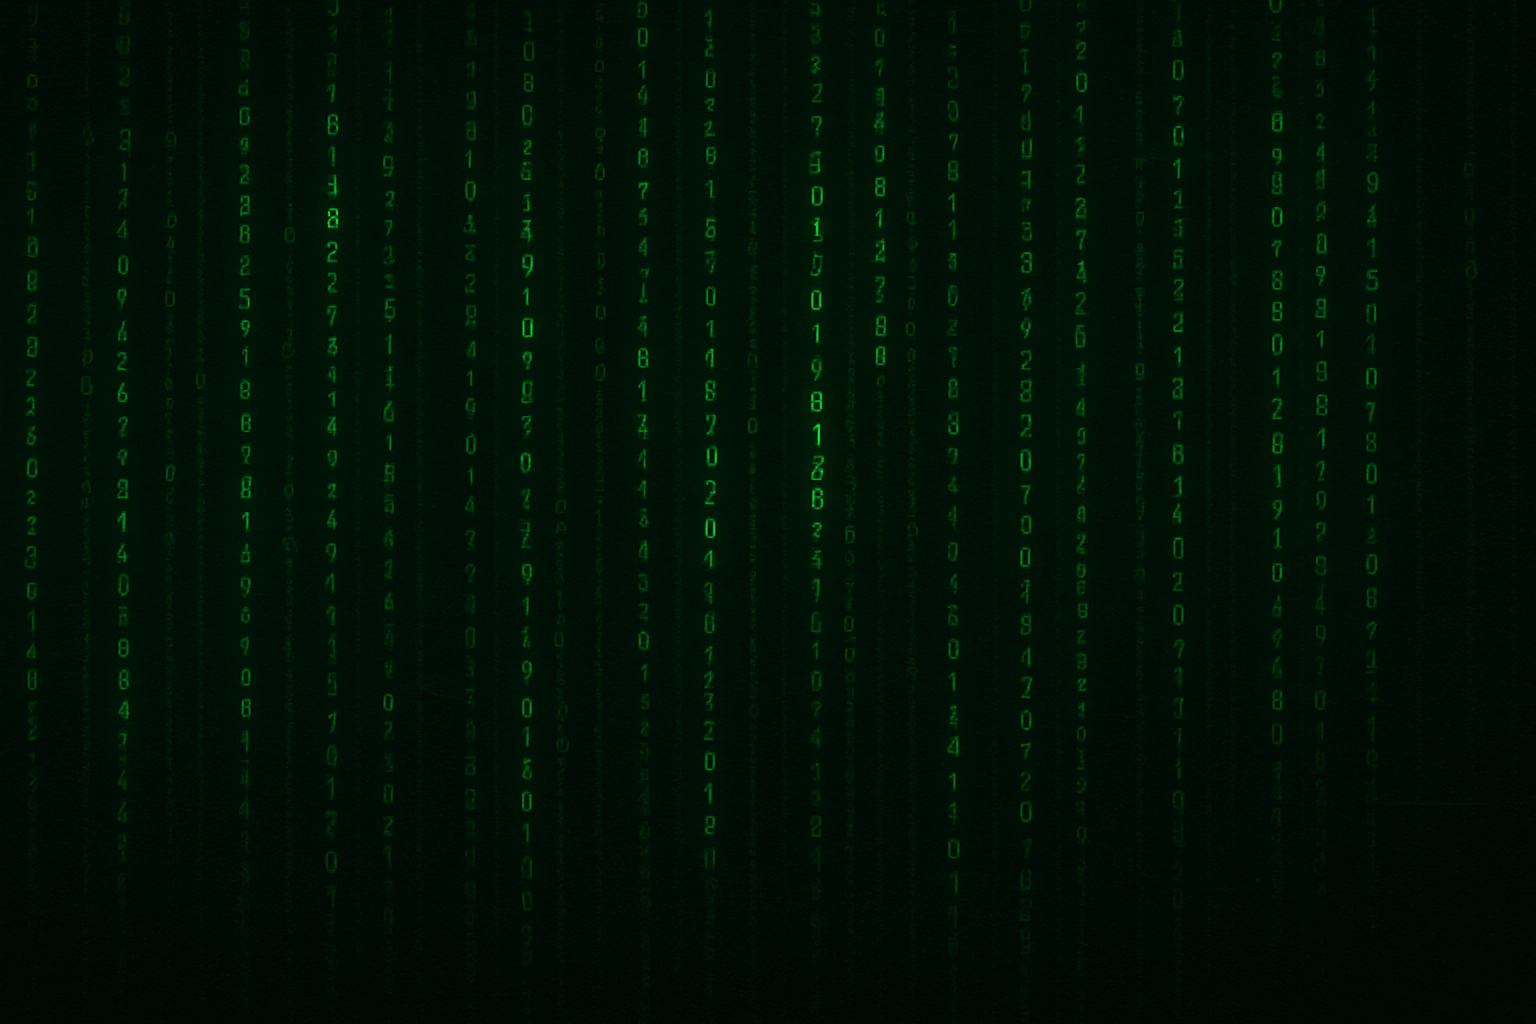
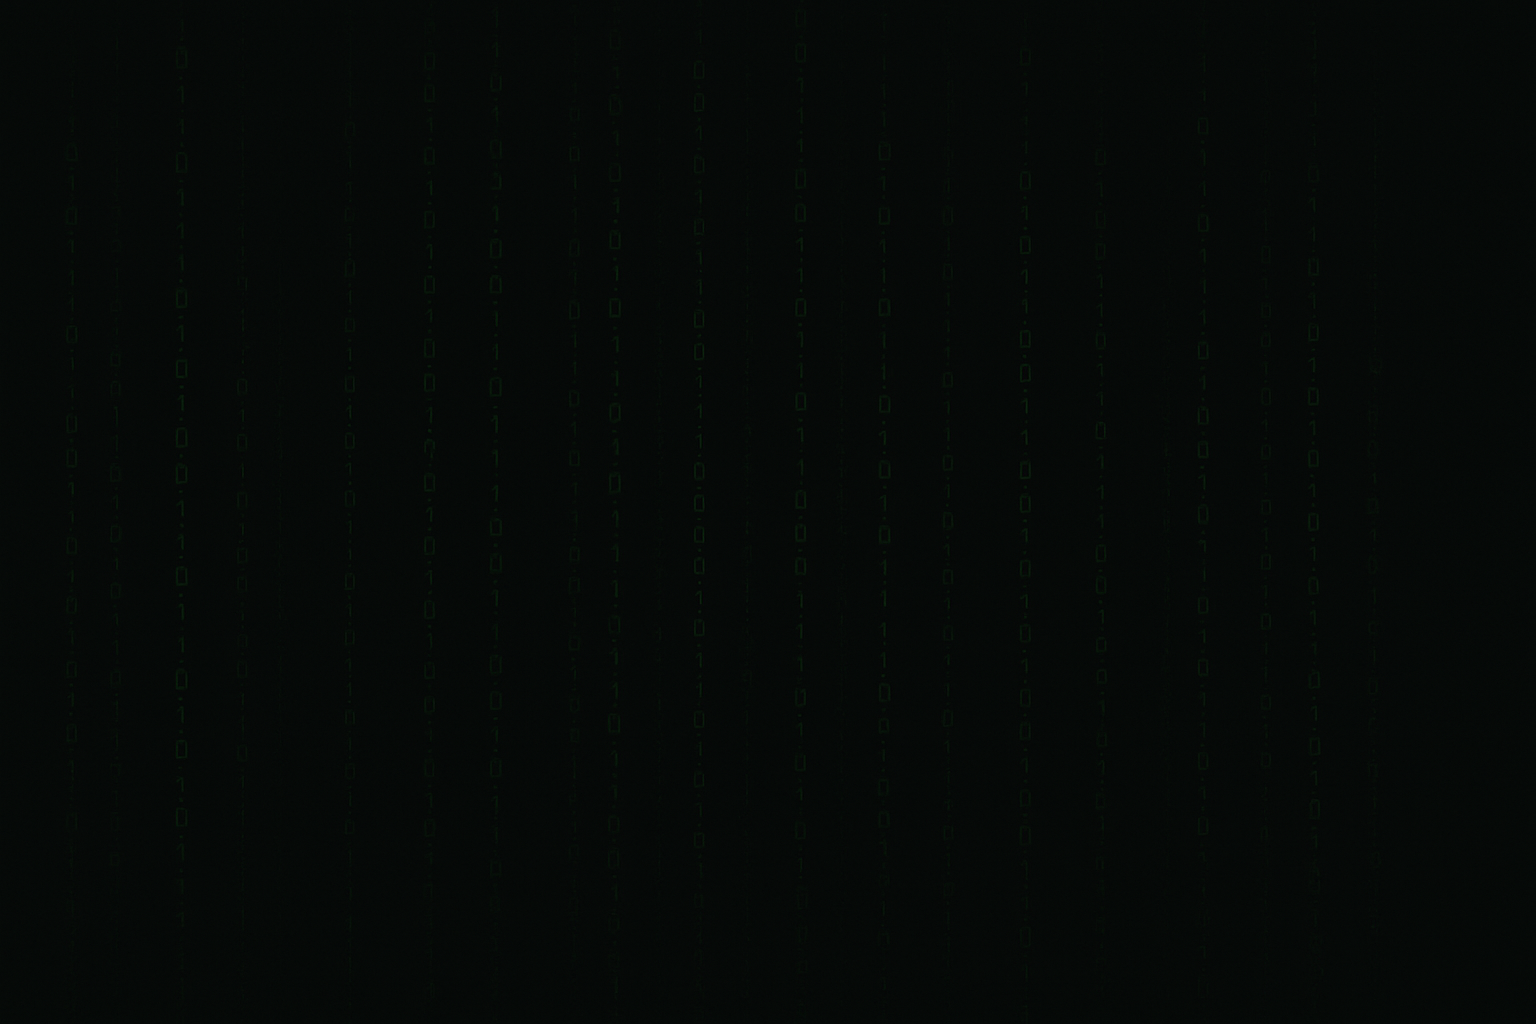
style: enhance UI with animations and text effects
Add fade-in/fade-out animations for game state transitions
Improve text visibility with font shadows

diff --git a/styles.css b/styles.css
@@ -10,10 +10,10 @@
 }
 body {
   background-color: hsla(0, 0%, 0%, 0.992);
+  background-image: url(./images/backGround.png);
   overflow: hidden;
 }
 #mainContainer {
-  /* background-image: url(./images/backGround.png); */
   height: 90vh;
   display: flex;
   justify-content: center;
@@ -44,8 +44,6 @@ body {
   font-family: "boston", sans-serif;
   font-size: 1.3em;
   color: #000000;
-  text-shadow: 0 0 5px #ffffff, 0 0 10px #5bd247, 0 0 15px #5bd247,
-    0 0 20px #5bd247, 0 0 25px #063d09;
 }
 
 .result {
@@ -55,16 +53,17 @@ body {
   justify-content: space-around;
   font-family: "boston", sans-serif;
   font-size: 1.2em;
-  color: #ffffff;
 }
 .playAgain button {
   font-family: "boston", sans-serif;
-  color: #ffffff;
-  font-size: 1.75em;
+  color: rgba(0, 0, 0);
+  font-size: 3rem;
   padding: 6px 12px;
-  background-color: #063d09;
+  background-color: transparent;
+  animation: fade-inout 2s infinite alternate;
   border-radius: 5em;
 }
+
 .playAgain {
   display: flex;
   color: #ffffff;
@@ -75,6 +74,29 @@ body {
   text-align: center;
   font-size: 2em;
 }
+
+@keyframes fade-inout {
+  0% {
+    opacity: 1;
+  }
+  100% {
+    opacity: 0.1;
+  }
+}
+.chooseWeapon {
+  animation: fade-inout 3s infinite alternate;
+  font-size: 3em;
+  text-align: center;
+  color: #000000;
+}
+.score,
+.chooseWeapon,
+.playAgain > button,
+.gameResult,
+.endGame {
+  text-shadow: 0 0 5px #ffffff, 0 0 10px #5bd247, 0 0 15px #5bd247,
+    0 0 20px #5bd247, 0 0 25px #063d09;
+}
 button {
   background-color: transparent;
   border: none;
@@ -82,10 +104,10 @@ button {
 img {
   height: 25vh;
   filter: drop-shadow(0 0 0.75rem #063d09) drop-shadow(0 0 0.75em #063d09);
+  transition: 0.3s;
 }
 
 img:hover {
   height: 27vh;
   filter: drop-shadow(0 0 0.9rem #5bd247) drop-shadow(0 0 0.9em #063d09);
-  transition: 0.5s;
 }

diff --git a/script.js b/script.js
@@ -10,6 +10,7 @@ const buttonContainer = document.querySelector(".uiChoice");
 const playAgainBTN = document.querySelector(".playAgain");
 const humanScoreBoard = document.querySelector(".human-score");
 const computerScoreBoard = document.querySelector(".computer-score");
+const chooseWeapon = document.querySelector(".chooseWeapon");
 
 let gameResult = document.querySelector(".gameResult");
 let endGame = document.querySelector(".endGame");
@@ -28,6 +29,7 @@ function gameStart() {
   clickHandler = (uiChoice) => {
     if (uiChoice.target.nodeName.toLowerCase() === "img") {
       humanChoice = uiChoice.target.alt.toLowerCase();
+      chooseWeapon.style.display = "none";
     }
     computerChoice = getComputerChoice();
     playRound();
@@ -141,6 +143,8 @@ function newGame() {
       computerScoreBoard.textContent = `Machine score: ${computerScore}`;
       gameResult.textContent = "   ";
       endGame.textContent = "    ";
+      chooseWeapon.style.display = "block";
+
       gameStart();
     }
   };

diff --git a/index.html b/index.html
@@ -12,6 +12,7 @@
     <div id="mainContainer">
       <div class="container result">
         <div class="gameResult"></div>
+        <div class="chooseWeapon">Choose your weapon</div>
         <div class="endGame"></div>
         <div class="playAgain">
           <button>Play Again</button>
